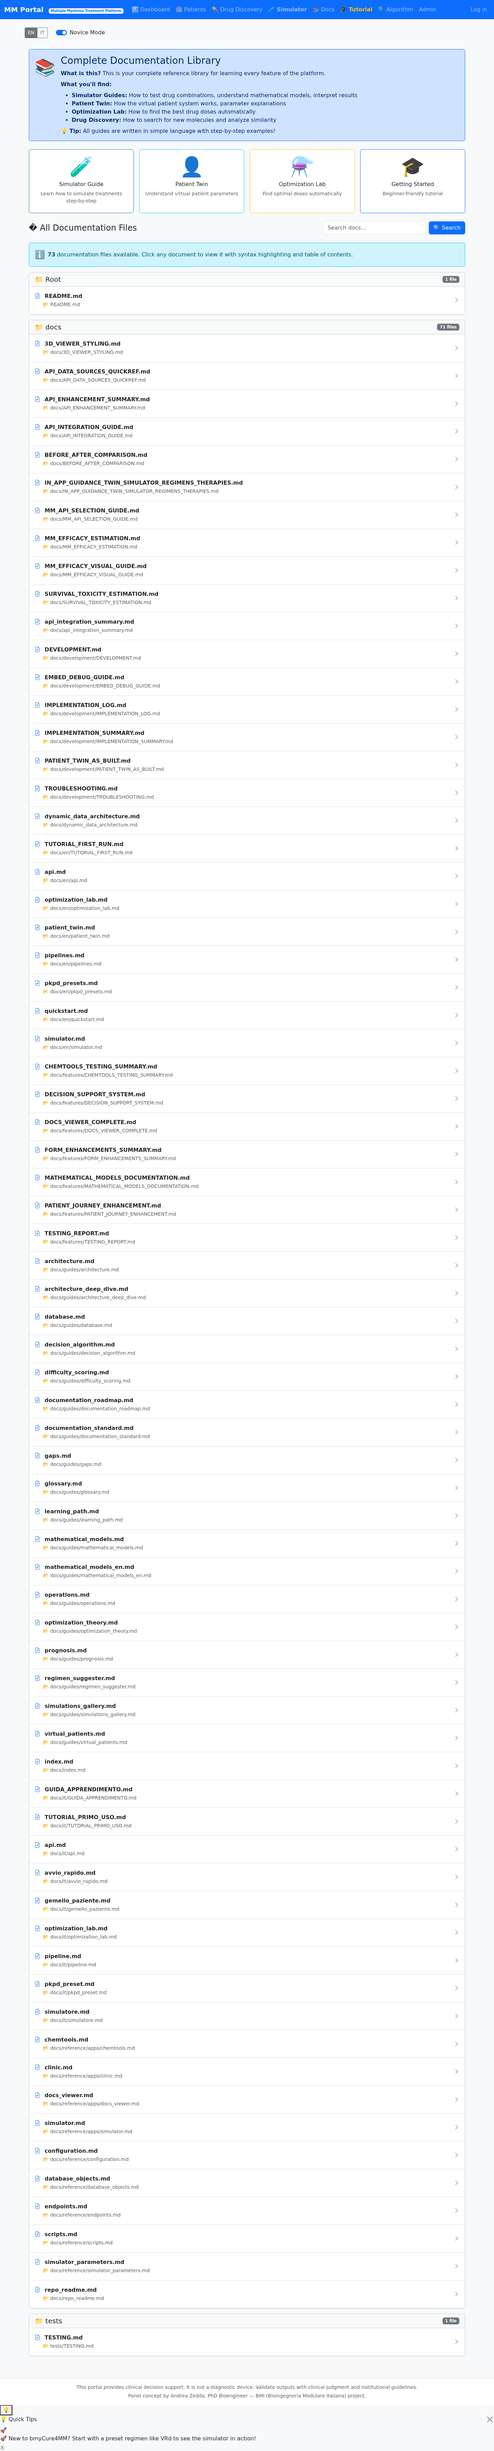
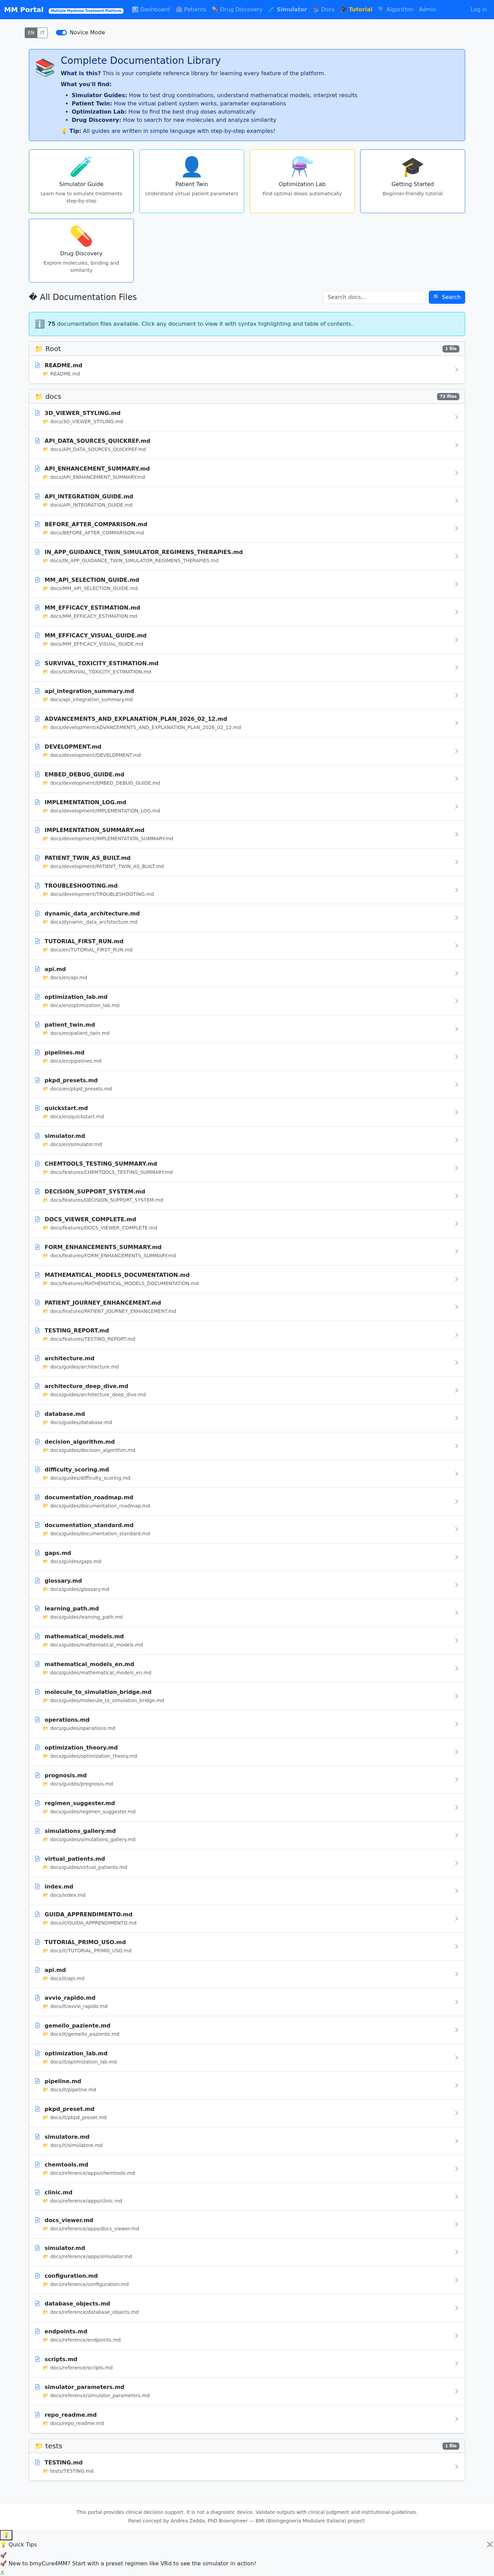
docs: add ChemTools screenshots and entry point

diff --git a/chemtools/templates/chemtools/tools_home.html b/chemtools/templates/chemtools/tools_home.html
@@ -38,6 +38,22 @@
     </div>
 </div>
 
+{% if not request.user.is_authenticated %}
+<div class="alert alert-warning border-warning mb-4" role="alert">
+    <div class="d-flex align-items-start gap-2">
+        <span style="font-size: 1.5rem;">🔒</span>
+        <div>
+            <div class="t-en"><strong>Demo mode:</strong> You can browse ChemTools, but running analyses and viewing job results requires login.</div>
+            <div class="t-it"><strong>Modalità demo:</strong> Puoi esplorare ChemTools, ma per lanciare analisi e vedere risultati serve il login.</div>
+            <a class="btn btn-sm btn-outline-dark mt-2" href="{% url 'admin:login' %}">
+                <span class="t-en">Log in</span>
+                <span class="t-it">Accedi</span>
+            </a>
+        </div>
+    </div>
+</div>
+{% endif %}
+
 <!-- MM Treatment Algorithm 2025 -->
 <div class="card shadow-sm mb-4">
     <div class="card-header bg-gradient" style="background: linear-gradient(135deg, #667eea 0%, #764ba2 100%); color: white;">
@@ -628,14 +644,21 @@
                 <span class="t-it">Non hai ancora inviato job di analisi. Inizia scegliendo uno strumento sopra!</span>
             </p>
             <div class="d-flex gap-2 justify-content-center">
-                <a href="{% url 'chemtools:drug_params' %}" class="btn btn-primary">
-                    <span class="t-en">Try Drug Parameters</span>
-                    <span class="t-it">Prova Parametri Farmaci</span>
-                </a>
-                <a href="{% url 'chemtools:similarity' %}" class="btn btn-info">
-                    <span class="t-en">Try Similarity Search</span>
-                    <span class="t-it">Prova Ricerca Similarità</span>
-                </a>
+                {% if request.user.is_authenticated %}
+                    <a href="{% url 'chemtools:drug_params' %}" class="btn btn-primary">
+                        <span class="t-en">Try Drug Parameters</span>
+                        <span class="t-it">Prova Parametri Farmaci</span>
+                    </a>
+                    <a href="{% url 'chemtools:similarity' %}" class="btn btn-info">
+                        <span class="t-en">Try Similarity Search</span>
+                        <span class="t-it">Prova Ricerca Similarità</span>
+                    </a>
+                {% else %}
+                    <a href="{% url 'admin:login' %}" class="btn btn-dark">
+                        <span class="t-en">Log in to run tools</span>
+                        <span class="t-it">Accedi per usare gli strumenti</span>
+                    </a>
+                {% endif %}
             </div>
         </div>
     </div>

diff --git a/docs_viewer/templates/docs_viewer/index.html b/docs_viewer/templates/docs_viewer/index.html
@@ -104,6 +104,22 @@
                 </div>
             </div>
         </div>
+
+        <div class="col-md-3">
+            <div class="card h-100 border-primary hover-card" style="cursor: pointer;" onclick="window.location='{% url 'chemtools:tools_home' %}'">
+                <div class="card-body text-center">
+                    <div class="display-4 mb-2">💊</div>
+                    <h3 class="h6">
+                        <span class="t-en">Drug Discovery</span>
+                        <span class="t-it">Ricerca Farmaci</span>
+                    </h3>
+                    <p class="small text-muted mb-2">
+                        <span class="t-en">Explore molecules, binding and similarity</span>
+                        <span class="t-it">Esplora molecole, binding e similarità</span>
+                    </p>
+                </div>
+            </div>
+        </div>
     </div>
 
     <div class="row">

diff --git a/docs/assets/scripts/generate_ui_screenshots.py b/docs/assets/scripts/generate_ui_screenshots.py
@@ -119,6 +119,24 @@ def main() -> int:
             env=env,
         )
 
+        # Create a ChemTools binding job so we can screenshot a real molecule viewer inside Job detail.
+        _run(
+            [
+                sys.executable,
+                "manage.py",
+                "shell",
+                "-c",
+                "from django.contrib.auth import get_user_model; "
+                "from chemtools import models; "
+                "from chemtools.tasks import run_binding_viz_job; "
+                "User=get_user_model(); u=User.objects.get(username='admin'); "
+                "job=models.ChemJob.objects.create(kind=models.ChemJob.BIND, input_a='5LF3', input_b='', user=u); "
+                "run_binding_viz_job.run(job.pk, '5LF3', ''); "
+                "print(job.pk)",
+            ],
+            env=env,
+        )
+
         # Start dev server
         server = subprocess.Popen(
             [
@@ -151,6 +169,7 @@ def main() -> int:
                 # Public-facing pages
                 snap("public_docs_home.png", "/docs/")
                 snap("public_simulator_list.png", "/sim/")
+                snap("public_chemtools_home.png", "/chem/")
 
                 # Authenticated clinician view (via Django admin login)
                 page.goto(f"{args.base_url}/admin/login/", wait_until="domcontentloaded")
@@ -161,6 +180,10 @@ def main() -> int:
 
                 snap("clinic_patient_list.png", "/patients/")
                 snap("clinic_dashboard.png", "/")
+
+                # ChemTools (authenticated) - show the tools landing and a real binding viewer job detail.
+                snap("chemtools_home.png", "/chem/")
+                snap("chemtools_binding_job.png", "/chem/job/1/")
 
                 # Real simulation plot output (generated above)
                 snap("simulation_plot.png", "/media/sim_plots/attempt_1.html")
@@ -188,9 +211,12 @@ def main() -> int:
     expected = [
         "public_docs_home.png",
         "public_simulator_list.png",
+        "public_chemtools_home.png",
         "clinic_patient_list.png",
         "clinic_dashboard.png",
         "simulation_plot.png",
+        "chemtools_home.png",
+        "chemtools_binding_job.png",
     ]
     missing = [p for p in expected if not (out_dir / p).exists()]
     if missing:

diff --git a/chemtools/views.py b/chemtools/views.py
@@ -32,10 +32,24 @@ def _enqueue(task, job: models.ChemJob, *params) -> tuple[bool, bool]:
         return False, failed
 
 
-@login_required
 def tools_home(request: HttpRequest) -> HttpResponse:
-    # Filter jobs by current user for privacy
-    jobs = models.ChemJob.objects.filter(user=request.user).select_related("user").order_by('-created')[:50]
+    """ChemTools landing page.
+
+    Public demo note: the page is viewable without login so the platform clearly
+    exposes the "Drug Discovery" area. Running jobs and viewing job details
+    remains authenticated (and jobs stay private).
+    """
+
+    # Filter jobs by current user for privacy.
+    # Anonymous visitors see an empty job list + a login prompt in the template.
+    if getattr(request.user, "is_authenticated", False):
+        jobs = (
+            models.ChemJob.objects.filter(user=request.user)
+            .select_related("user")
+            .order_by("-created")[:50]
+        )
+    else:
+        jobs = models.ChemJob.objects.none()
     return render(
         request,
         "chemtools/tools_home.html",

diff --git a/docs/index.md b/docs/index.md
@@ -81,6 +81,15 @@ $$
 
   ![Clinic (patient list)](assets/images/screenshots/clinic_patient_list.png)
 
+  ### 4) Ricercatore (molecole e struttura — ChemTools)
+  - Apro **Drug Discovery (ChemTools)**.
+  - Uso **Binding visualization** (PDB + ligando) e/o **Similarity search** (SMILES).
+  - Leggo la pagina Job (viewer + sezioni evidence-based).
+
+  ![ChemTools (tools home)](assets/images/screenshots/public_chemtools_home.png)
+
+  ![ChemTools (binding viewer example)](assets/images/screenshots/chemtools_binding_job.png)
+
   !!! tip "Come vengono prodotti gli screenshot"
     Gli screenshot sono generati con uno script automatico basato su Playwright.
     Vedi: `docs/assets/scripts/generate_ui_screenshots.py`.
